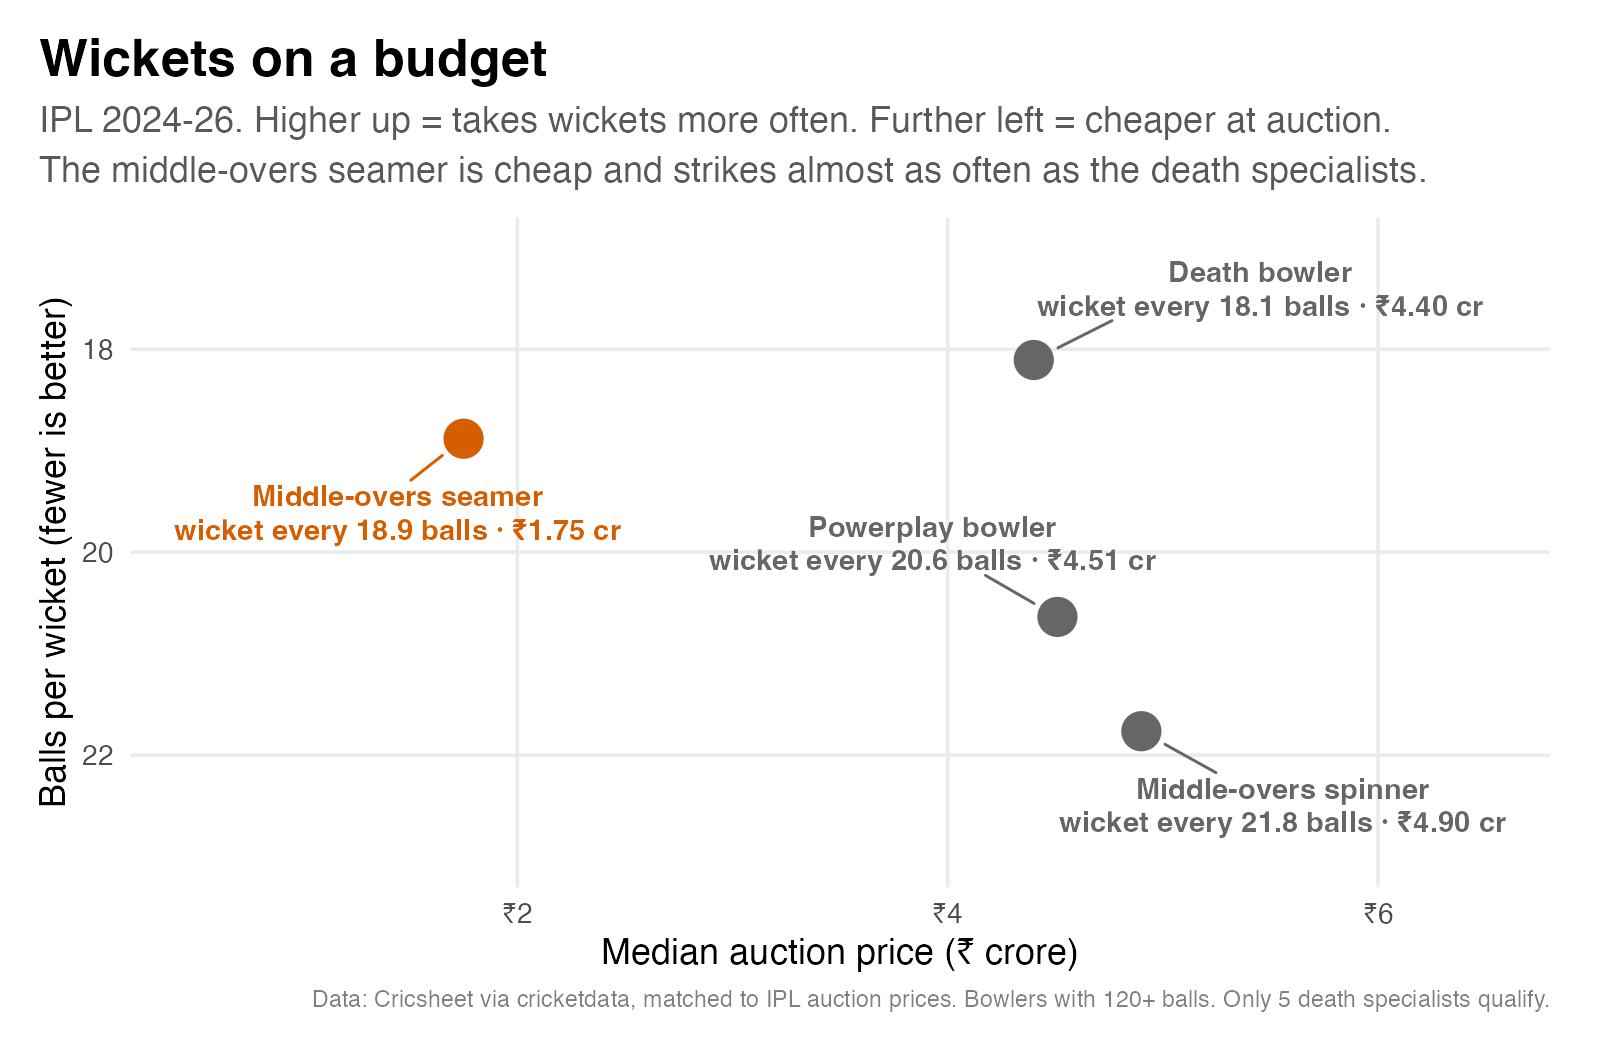
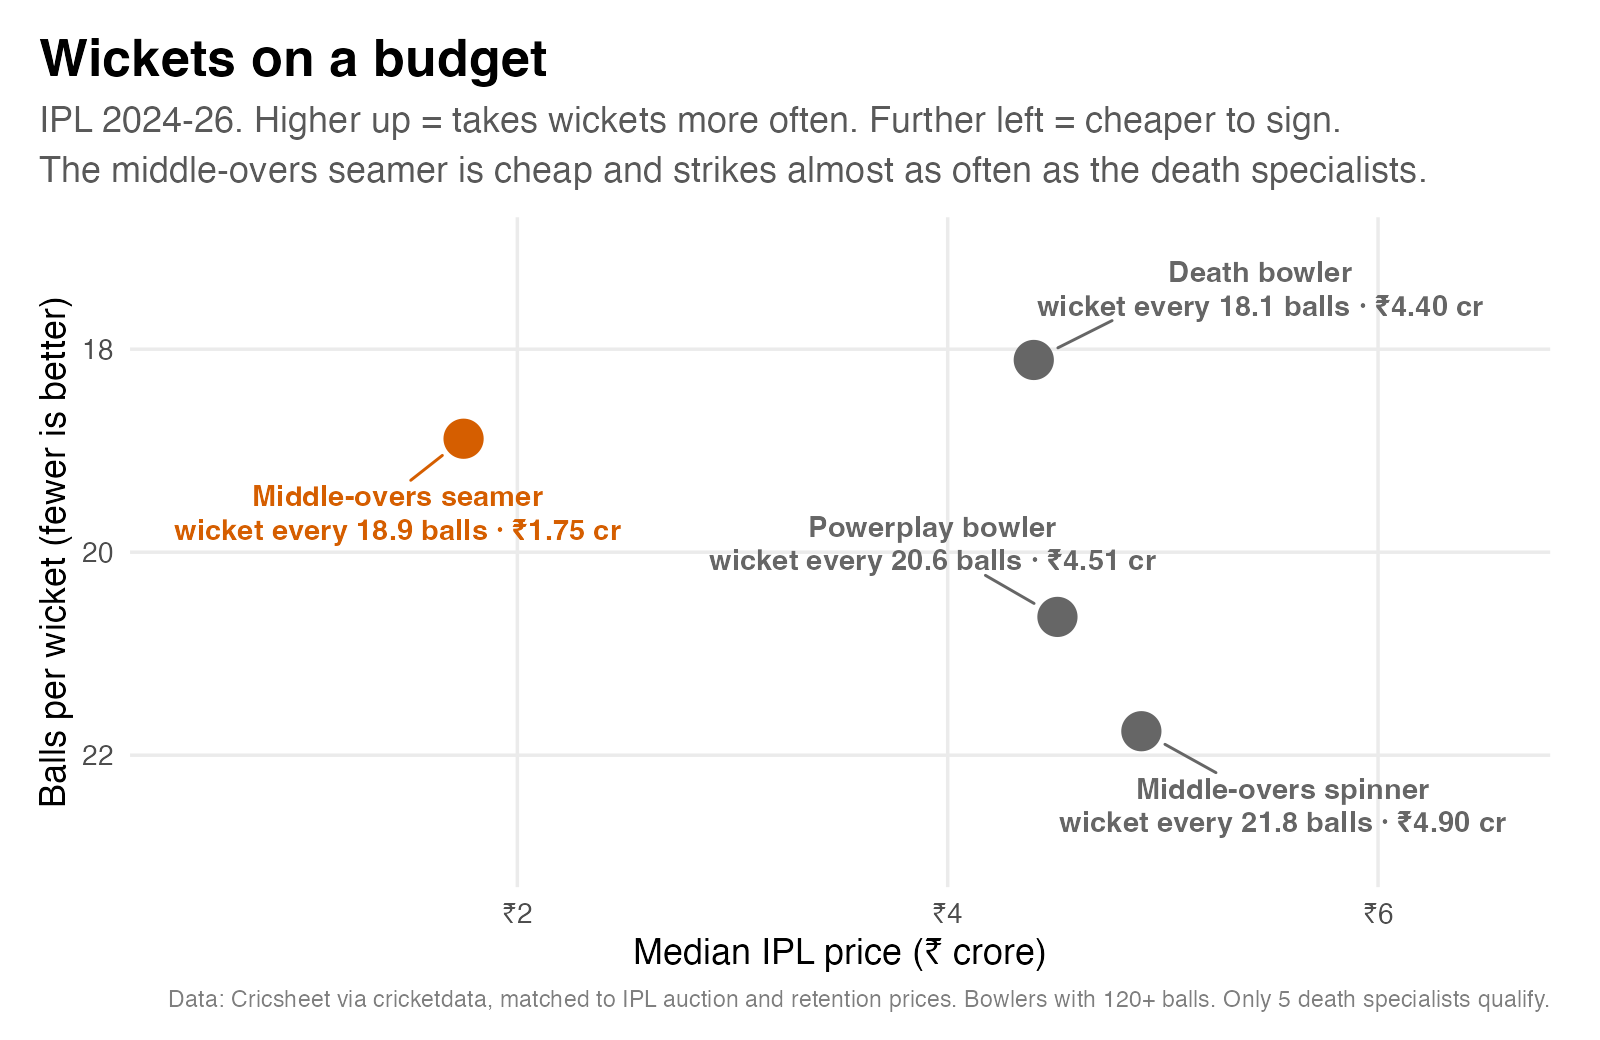
fix: label middle-overs seamer prices as auction or retention
- Re-rendered role_price_by_role.png and role_wickets_price.png with
  'IPL price (auction or retention)' wording; updated captions/alt text
- 'Nine of them were uncapped' -> 'Eight of those 16 were uncapped'

Checks: Rscript analysis/cricket/role_charts.R (ok, 4 charts saved);
Rscript count from q4_lists.rds$bowl -> 30 priced, 16 <=2cr, 8 uncapped of 16;
python site/build.py -> Built 9 pages, 6 local articles; home order
Mitchell -> Bargain in the Middle Overs -> Hope.

Changed region(s): [[0.0938, 0.8923, 0.6875, 0.9846], [0.75, 0.0923, 0.875, 0.1538]]

diff --git a/site/content/cricket/middle-overs-seamer-underappreciated-role.md b/site/content/cricket/middle-overs-seamer-underappreciated-role.md
@@ -1,7 +1,7 @@
 ---
 title: "The Bargain in the Middle Overs"
 slug: "middle-overs-seamer-underappreciated-role"
-description: "Seamers now bowl 60% of the balls in the IPL's overs 12 to 16 and 46% in overs 7 to 11. The middle-overs seamer takes wickets almost as often as a death specialist, yet his median auction price is ₹1.75 crore."
+description: "Seamers now bowl 60% of the balls in the IPL's overs 12 to 16 and 46% in overs 7 to 11. The middle-overs seamer takes wickets almost as often as a death specialist, yet his median IPL price is ₹1.75 crore."
 standfirst: "The powerplay gets the start. The death overs get the headlines. The middle overs decide a lot of games, and the seamer bowling them is one of the cheapest buys at the IPL auction."
 date: 2026-10-30
 category: "Data Stories"
@@ -72,26 +72,26 @@ So pace leaks a few more runs and takes wickets a little more often. In a phase 
 Here's where it gets interesting. I sorted every IPL bowler with 120+ balls since 2024 into a role, then matched them to what they cost from 2024 to 2026. That's the auction price, or the retention fee for players their team kept.
 
 <figure class="chart-figure">
-  <img src="/charts/cricket/role_price_by_role.png" alt="Bar chart of median IPL auction price by bowling role for 2024 to 2026: middle-overs spinner ₹4.90 crore, powerplay bowler ₹4.51 crore, death bowler ₹4.40 crore and middle-overs seamer ₹1.75 crore">
-  <figcaption>Median auction price by bowling role, 2024–26 auctions. The middle-overs seamer is far cheaper than every other role.
-  <span class="chart-source">Cricsheet via cricketdata, matched to IPL auction prices.</span></figcaption>
+  <img src="/charts/cricket/role_price_by_role.png" alt="Bar chart of median IPL price (auction or retention) by bowling role for 2024 to 2026: middle-overs spinner ₹4.90 crore, powerplay bowler ₹4.51 crore, death bowler ₹4.40 crore and middle-overs seamer ₹1.75 crore">
+  <figcaption>Median IPL price by bowling role, 2024–26, counting auction buys and retentions. The middle-overs seamer is far cheaper than every other role.
+  <span class="chart-source">Cricsheet via cricketdata, matched to IPL auction and retention prices.</span></figcaption>
 </figure>
 
-The typical middle-overs seamer cost **₹1.75 crore**. The typical death bowler cost ₹4.40 crore, the powerplay bowler ₹4.51 crore and the middle-overs spinner ₹4.90 crore. That's the cheapest of the four main bowling roles by a distance. Sixteen of the 30 middle-overs seamers I could price went for ₹2 crore or less. Nine of them were uncapped.
+The typical middle-overs seamer cost **₹1.75 crore**. The typical death bowler cost ₹4.40 crore, the powerplay bowler ₹4.51 crore and the middle-overs spinner ₹4.90 crore. That's the cheapest of the four main bowling roles by a distance. Sixteen of the 30 middle-overs seamers I could price cost ₹2 crore or less. Eight of those 16 were uncapped.
 
 Quick word on "median", because it matters here. The median is the price of the bowler in the middle of the list. The average for middle-overs seamers is higher, about ₹4.2 crore, because a couple of all-rounders sit in this group. Cameron Green averaged ₹25.20 crore in my price data and Hardik Pandya ₹16.35 crore. Both are all-rounders, bought for a lot more than their middle-overs bowling. Drop them and you see what a normal middle-overs seamer actually costs, which is where the median comes in.
 
 Now put price next to wickets.
 
 <figure class="chart-figure">
-  <img src="/charts/cricket/role_wickets_price.png" alt="Dot chart of bowling roles by median auction price and balls per wicket. Middle-overs seamer: a wicket every 18.9 balls at ₹1.75 crore. Death bowler: 18.1 balls at ₹4.40 crore. Powerplay bowler: 20.6 balls at ₹4.51 crore. Middle-overs spinner: 21.8 balls at ₹4.90 crore">
+  <img src="/charts/cricket/role_wickets_price.png" alt="Dot chart of bowling roles by median IPL price (auction or retention) and balls per wicket. Middle-overs seamer: a wicket every 18.9 balls at ₹1.75 crore. Death bowler: 18.1 balls at ₹4.40 crore. Powerplay bowler: 20.6 balls at ₹4.51 crore. Middle-overs spinner: 21.8 balls at ₹4.90 crore">
   <figcaption>Higher up means more wickets, further left means cheaper. The middle-overs seamer sits on his own in the cheap, wicket-taking corner.
-  <span class="chart-source">IPL 2024–26, bowlers with 120+ balls. Cricsheet via cricketdata, matched to IPL auction prices.</span></figcaption>
+  <span class="chart-source">IPL 2024–26, bowlers with 120+ balls. Cricsheet via cricketdata, matched to IPL auction and retention prices.</span></figcaption>
 </figure>
 
 Across all their IPL overs since 2024, middle-overs seamers took a wicket every 18.9 balls. Death bowlers took one every 18.1, powerplay bowlers every 20.6 and middle-overs spinners every 21.8. So they strike almost as often as the death specialists, for well under half the price. They do go for more runs, about 9.6 an over on average. That's the catch, and it's part of why they come cheap. But wickets at that rate for that money is a deal.
 
-A few names make the point (average auction price, then IPL wickets since 2024):
+A few names make the point (average IPL price, then IPL wickets since 2024):
 
 - **Eshan Malinga:** ₹1.20 crore, 33 wickets.
 - **Prince Yadav:** ₹0.30 crore, 19 wickets.
